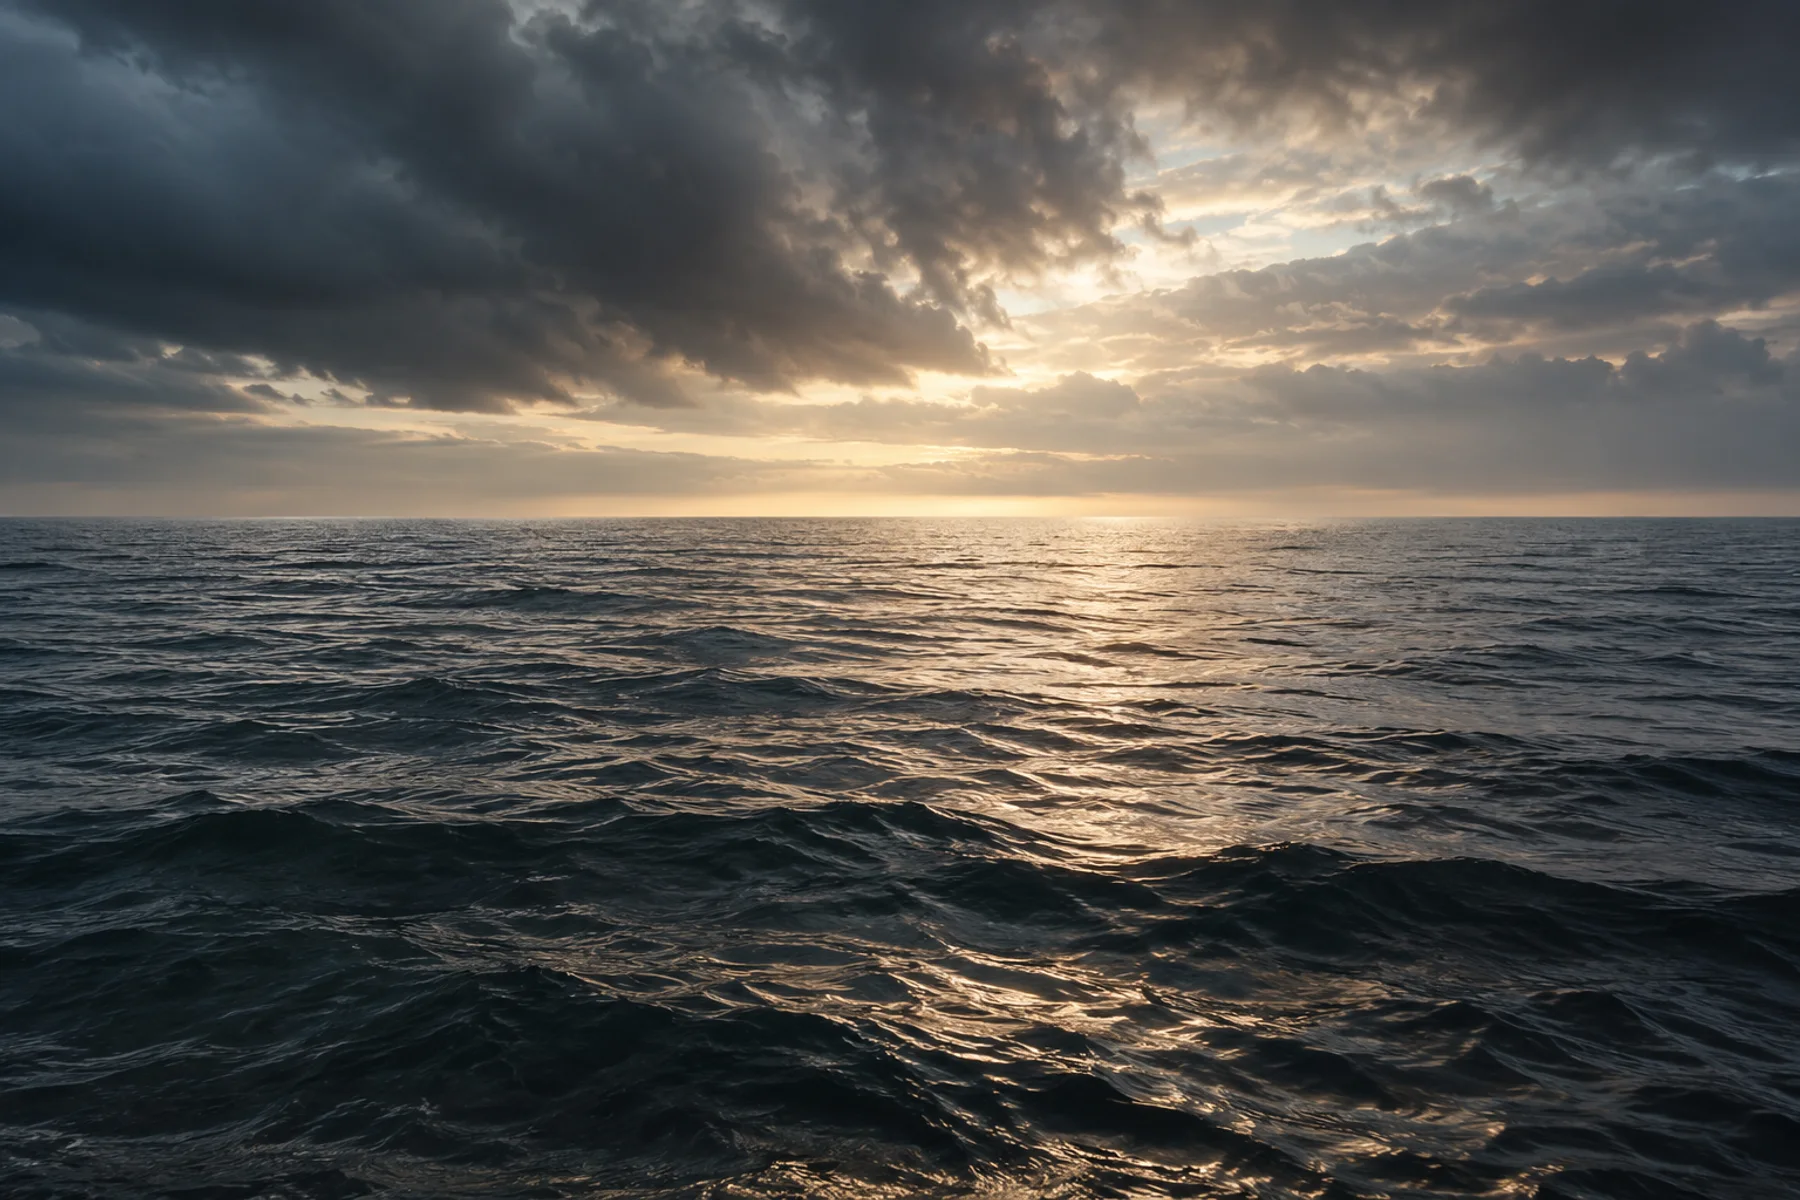
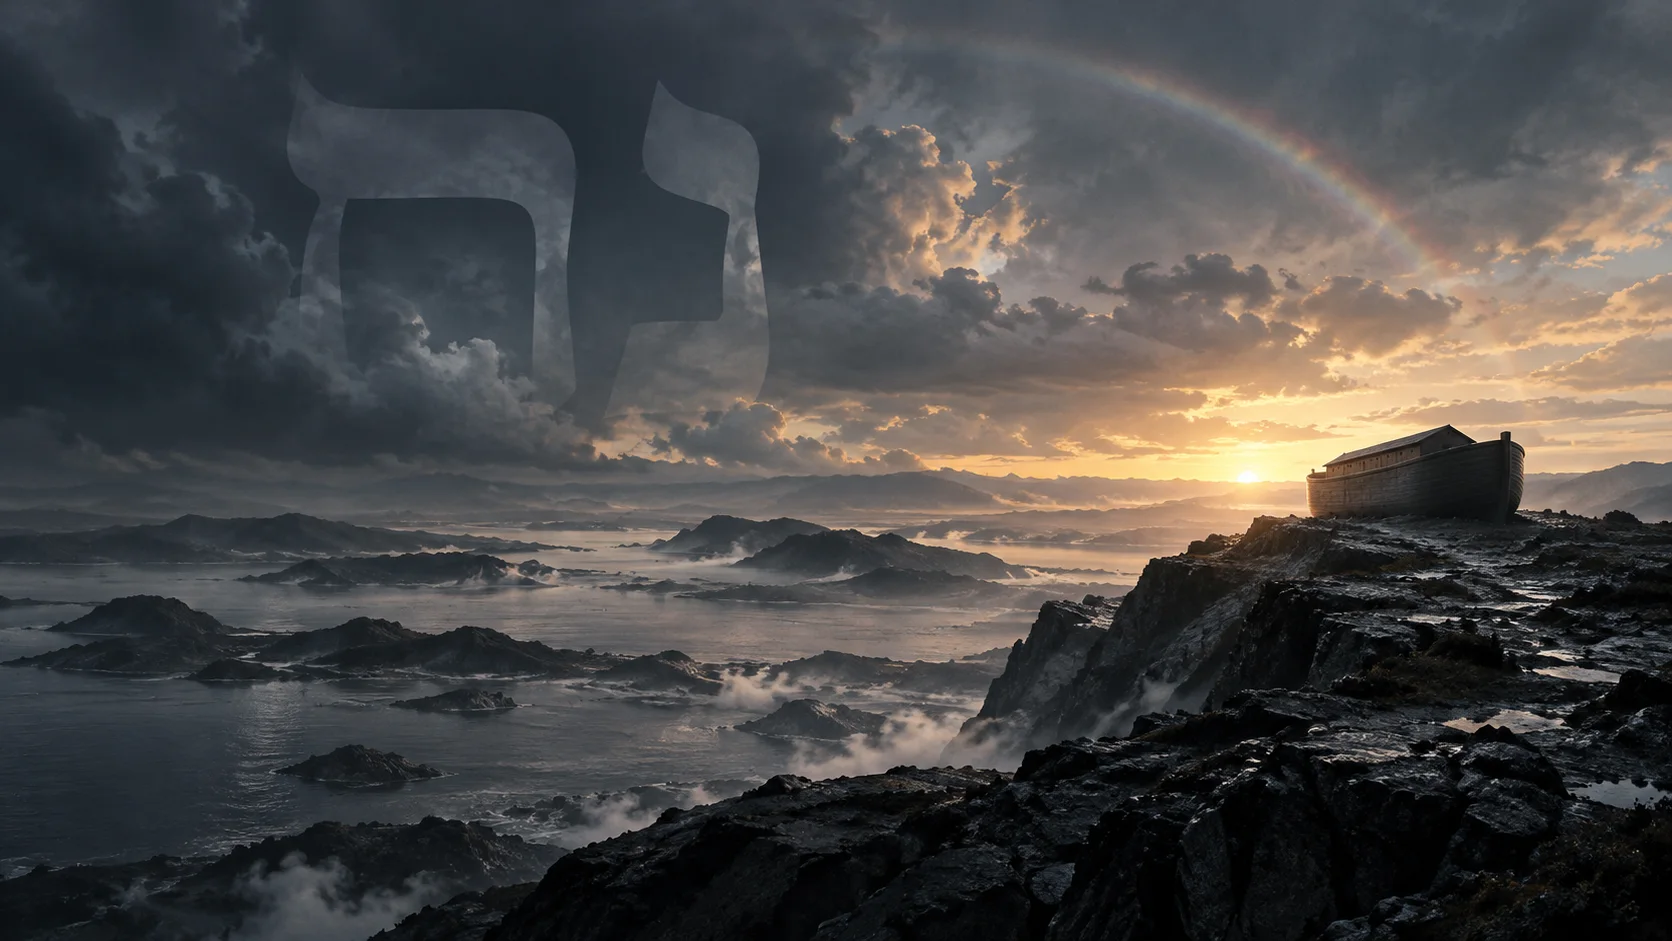
02

diff --git a/src/content/parashot/5787/noach.md b/src/content/parashot/5787/noach.md
@@ -12,11 +12,40 @@ readingUrl: "https://www.bible.com/uk/bible/3786/GEN.6.CUV"
 gregorianDate: "2026-10-17"
 hebrewDate: "6 хешвана 5787"
 heroImage: "/images/parashot/5787/noach/cover.webp"
-heroAlt: "Темна вода після дощу під небом, яке поступово прояснюється"
-essence: "Коли звичний світ зникає, важливо зберегти те, з чого життя зможе початися знову. Надія потребує і терпіння, і відкритого вікна."
-reflectionQuestions: ["Що ви хотіли б зберегти, навіть коли звичні опори змінюються?", "За якими маленькими ознаками ви помічаєте, що вже можна зробити наступний крок?"]
-published: false
+heroAlt: "Ковчег на скелястому узбережжі на світанку, веселка над морем після потопу"
+essence: "Що зміниться, якщо світ стане іншим, а людина залишиться тією самою?"
+shareDescription: "Новий початок змінює обставини. Та чи здатен він змінити людське серце?"
+reflectionQuestions: ["Чи не чекаємо ми від Бога нових можливостей і благословень у тих сферах, де насамперед потребує змін наше серце?"]
+published: true
 draft: false
 ---
 
-Скоро
+## 01 · Про що ця глава
+
+Ми часто мріємо почати все спочатку, сподіваючись, що цього разу все буде інакше. Проте історія Ноаха ставить перед нами незручне запитання: що зміниться, якщо світ стане іншим, а людина залишиться тією самою?
+
+## 02 · Оповідь
+
+Світ, який Бог назвав добрим, наповнився насильством. Потоп повертає землю під владу вод, а серед загального руйнування Бог зберігає Ноаха, його родину й усе живе, якому належить продовжити історію творіння.
+
+Коли води відступають, здається, що людство отримало чистий аркуш. Проте Тора не залишає місця для ілюзій. Бог знову говорить про схильність людського серця до зла — майже тими самими словами, що й перед потопом. Не тому, що Він лише тепер це зрозумів. Радше сама історія відкриває нам те, що ми так неохоче визнаємо: зовнішні обставини можна змінити, але від себе самого не втечеш.
+
+І все ж Бог укладає завіт. Він обіцяє, що звичний плин земного життя не припиниться і більше не знищуватиме все живе потопом. Знаючи людську природу, Він не відмовляється від Свого творіння.
+
+Та минає зовсім небагато поколінь, і люди починають будувати Вавилонську вежу, намагаючись самостійно визначити своє майбутнє. Вони прагнуть зробити собі ім'я й уникнути розсіяння. У цьому є щось дуже людське. Ми створені за образом Божим, обдаровані розумом, уявою і здатністю творити. Але разом із цими дарами носимо в серці страх, гордість і дивовижну впевненість, що краще за всіх знаємо, яким має бути наше майбутнє.
+
+Найбільша трагедія Вавилона — не у висоті вежі, а в тому, що люди, здатні на таке велике звершення, вирішили самі визначити межі власного покликання.
+
+На противагу цій історії вже в наступній главі Бог пообіцяє Аврамові, що Сам зробить його ім'я великим.
+
+## 03 · Сьогодні
+
+Ми більше не будуємо веж до небес, але власних Вавилонів у нас вистачає. Це можуть бути наші плани, амбіції, навіть добрі наміри, за які ми тримаємося так міцно, що вже не залишаємо місця для Божої волі.
+
+Іноді ми просимо Бога благословити дорогу, яку самі обрали, майже не замислюючись, чи саме нею Він хоче нас вести.
+
+А коли плани руйнуються, нам важко припустити, що не кожні зачинені перед нами двері є втратою. Можливо, іноді Господь зупиняє нас не для того, щоб позбавити майбутнього, а щоб зберегти його для чогось більшого.
+
+Будівельники Вавилона прагнули великого імені. Аврамові ж належало залишити знайомий світ і довіритися обіцянці. І саме через нього Бог задумав принести благословення багатьом, хоча сам Аврам помер, так і не побачивши втілення всього Божого плану.
+
+Мабуть, найбільше нам заважає не брак можливостей, а небажання відпустити власне уявлення про те, якими ці можливості мають бути.
